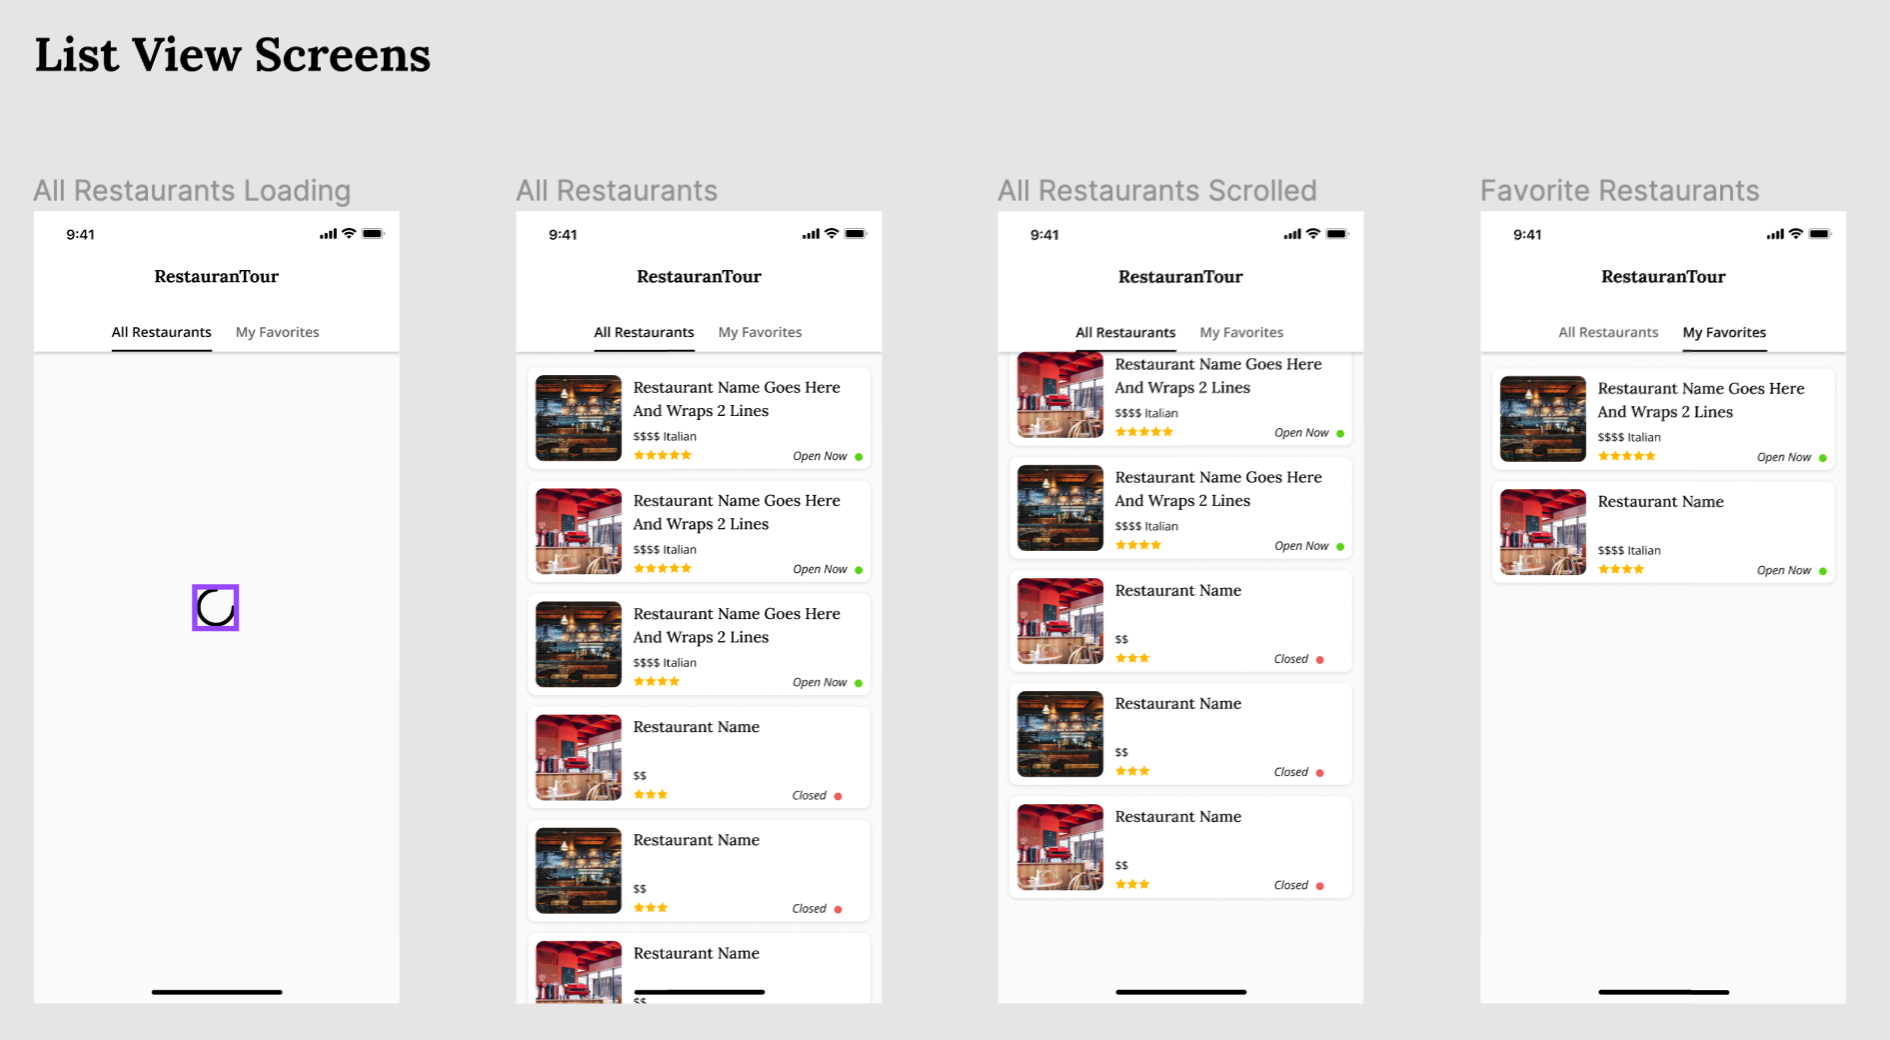
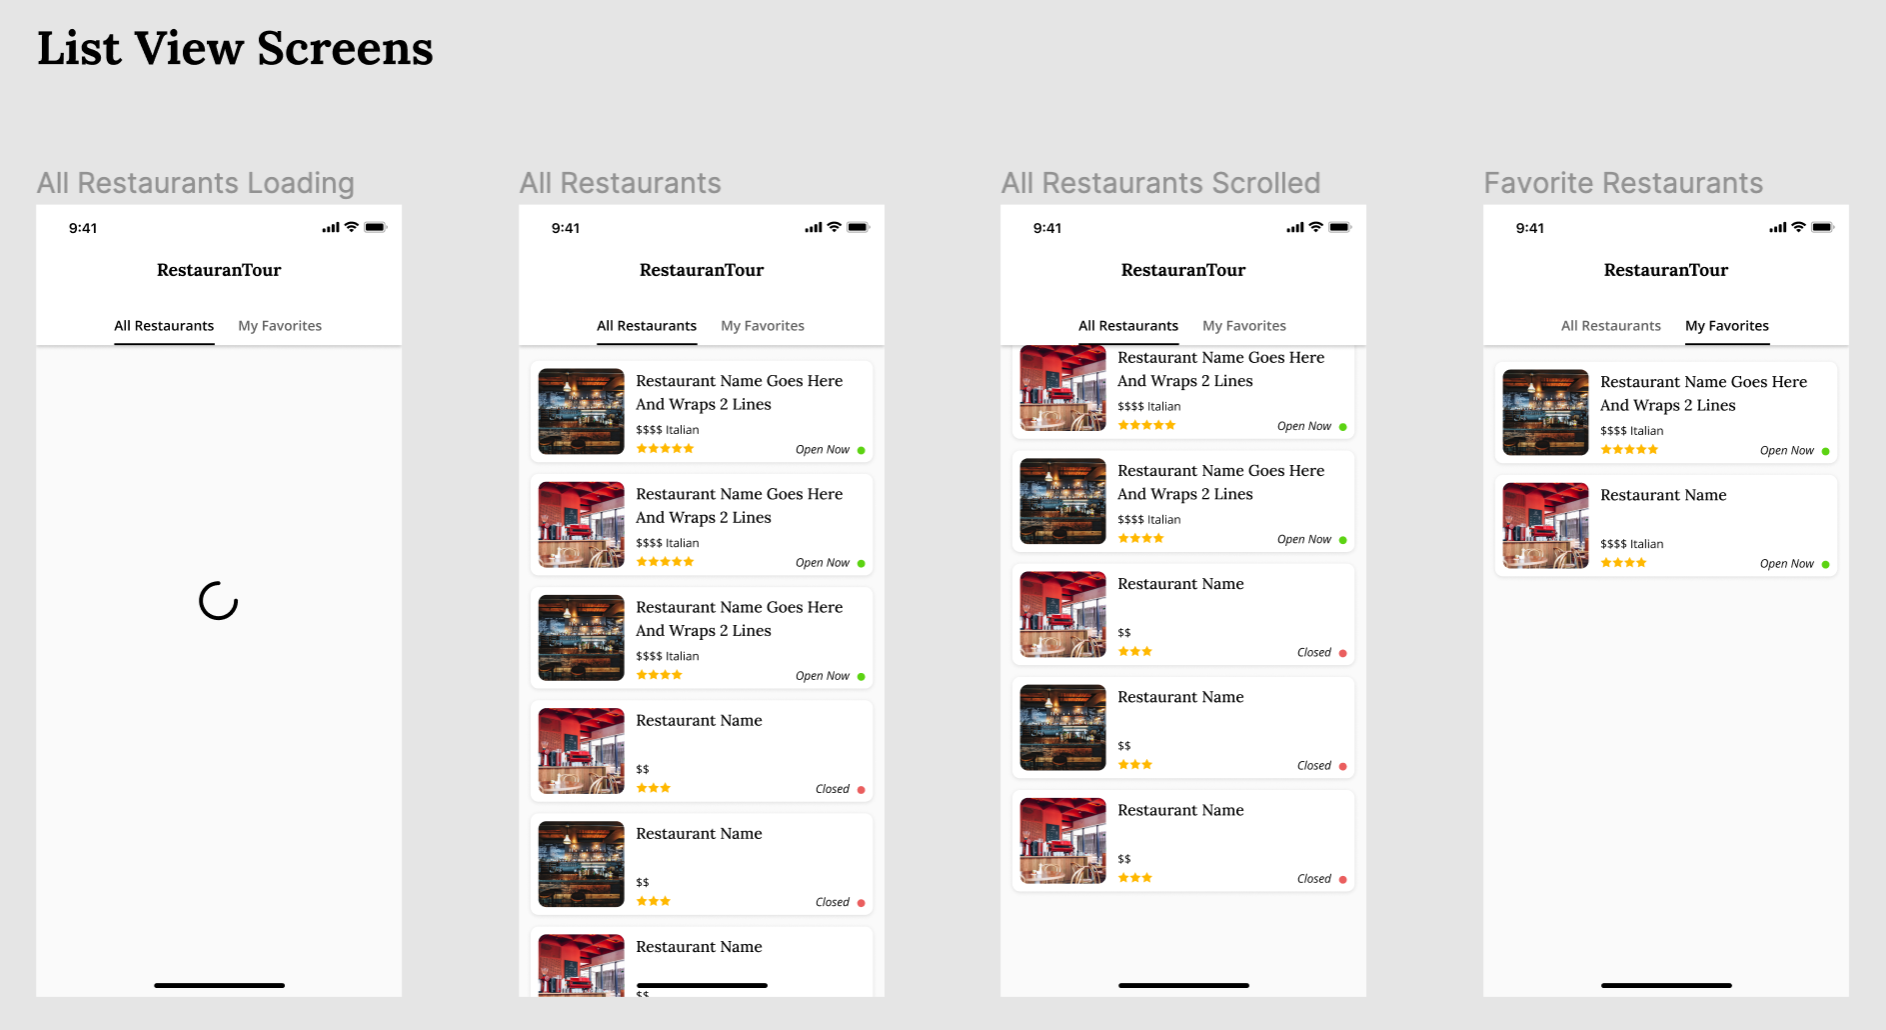
chore: remove highlighted item in screenshot

diff --git a/README.md b/README.md
@@ -94,7 +94,7 @@ Feel free to add more tests as you see fit but the above is the minimum requirem
 
 ## Design
 
-- See this [Figma File](https://www.figma.com/file/KsEhQUp66m9yeVkvQ0hSZm/Flutter-Test?node-id=0%3A1) for design information related to the overall look and feel of the application. We do not expect pixel-perfection but would like an end product that is very similar to what is specified in the Figma file.
+- See this [Figma File](https://www.figma.com/file/KsEhQUp66m9yeVkvQ0hSZm/Flutter-Test?node-id=0%3A1) for design information related to the overall look and feel of the application. We do not expect pixel-perfection but would like the application to visually be close to what is specified in the Figma file.
 
 ![List View](screenshots/listview.png)
 ![Detail View](screenshots/detailview.png)
